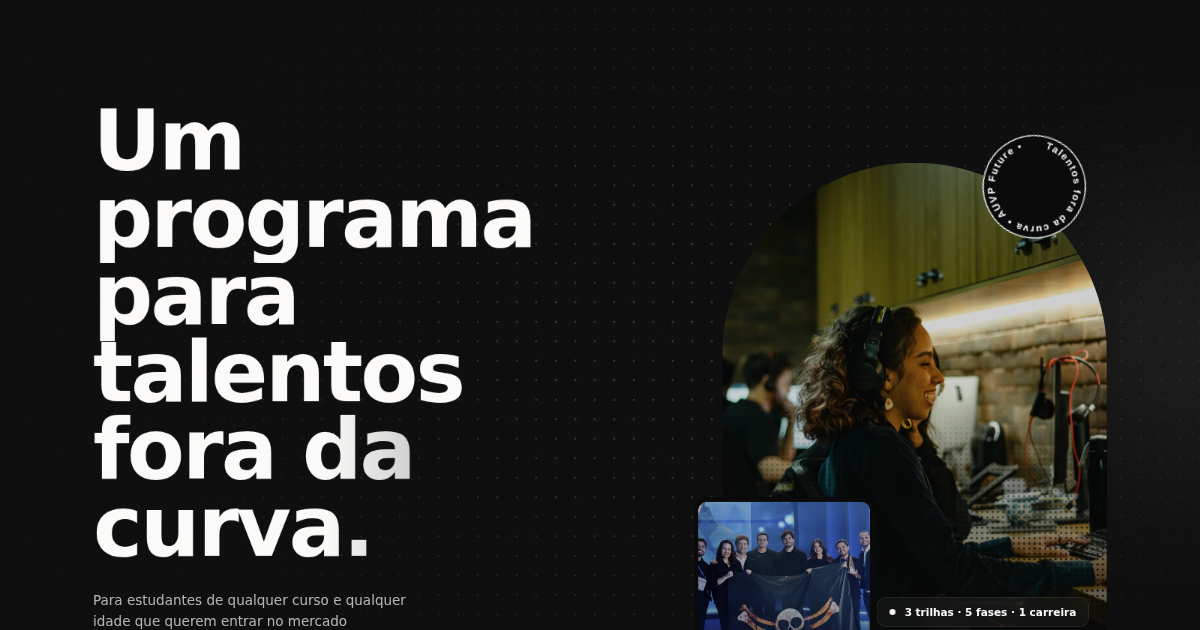
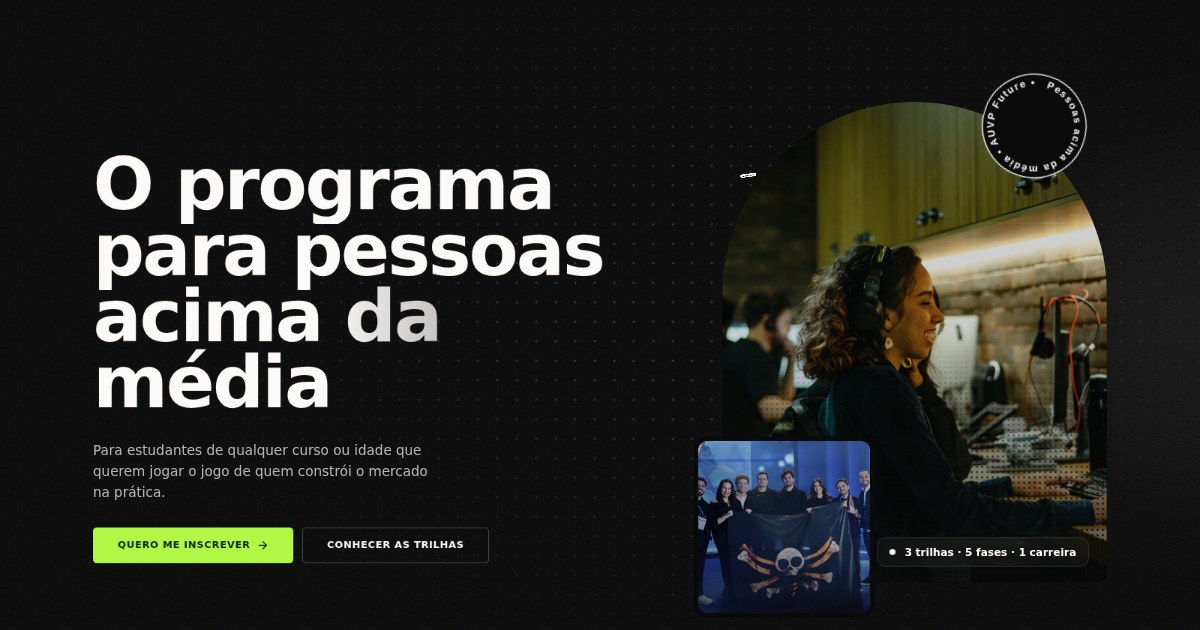
Apply the board's PDF copy and add the "O que é a AUVP?" fold
- Hero: "O programa para pessoas acima da média" + new subtitle; band,
  ring and tagline follow. display-xl trimmed to clamp(2.5rem, 6vw,
  6.5rem) so the three lines hold even with fallback fonts
- New About fold (white) between Hero and Intro: four credential cards —
  60 mil+ investidores formados, Top 1 no ranking BTG Pactual, 4 frentes
  de soluções, Cultura/valores
- Intro: "Isso não é um programa de estágio" + "Não contratamos papéis.
  Contratamos capacidade de execução…" (lime on execução / sangue nos
  olhos)
- Process: lead "Cinco etapas. Zero atalhos."; closing line removed as
  the PDF asks
- Trails: "Você escolhe a área e nós te ensinamos o resto."
- NotRequired: "Potencial e vontade pesam mais que currículo." + lead and
  the PDF's three explanations
- CTA: "Você tem o perfil que a gente procura?" / banco de talentos;
  button "Garantir minha inscrição"
- docs/copy-oficial-2026-09.md stores the extracted PDF text; README,
  CONTEUDO and CLAUDE.md updated; OG regenerated

Claude-Session: https://claude.ai/code/session_019ytdwh35wKkSoQDiyke19Z

diff --git a/src/data/content.ts b/src/data/content.ts
@@ -5,35 +5,44 @@
 
 export const site = {
   name: "AUVP Future",
-  tagline: "Um programa para talentos fora da curva.",
+  tagline: "O programa para pessoas acima da média.",
   applyUrl: import.meta.env.VITE_APPLY_URL || "#inscricao",
   formEndpoint: import.meta.env.VITE_FORM_ENDPOINT || "",
 } as const;
 
 export const hero = {
-  title: ["Um programa", "para talentos", "fora da curva."],
+  title: ["O programa", "para pessoas", "acima da média"],
   facts: ["Qualquer curso", "Qualquer idade", "Três trilhas de carreira"],
   badge: "3 trilhas · 5 fases · 1 carreira",
-  band: ["Um programa para talentos fora da curva", "Tecnologia", "Growth & Marketing", "Negócios & Finanças"],
-  ring: "Talentos fora da curva • AUVP Future • ",
+  band: ["O programa para pessoas acima da média", "Tecnologia", "Growth & Marketing", "Negócios & Finanças"],
+  ring: "Pessoas acima da média • AUVP Future • ",
   subtitle:
-    "Para estudantes de qualquer curso e qualquer idade que querem entrar no mercado aprendendo rápido, entregando de verdade e jogando em alta performance.",
+    "Para estudantes de qualquer curso ou idade que querem jogar o jogo de quem constrói o mercado na prática.",
   primaryCta: "Quero me inscrever",
   secondaryCta: "Conhecer as trilhas",
 } as const;
 
+export const about = {
+  title: "O que é a AUVP?",
+  items: [
+    { stat: "60 mil+", title: "A maior escola de investimentos do Brasil", text: "Mais de 60 mil investidores formados." },
+    { stat: "Top 1", title: "Ranking BTG Pactual", text: "Primeiro lugar no ranking de consultoria pelo segundo ano consecutivo." },
+    { stat: "4 frentes", title: "Soluções financeiras integradas", text: "Educação, consultoria patrimonial, inteligência para o agronegócio e soluções internacionais." },
+    { stat: "Cultura", title: "Compromisso inegociável com nossos valores", text: "Inovação e crescimento só acontecem quando a cultura interna é sólida." },
+  ],
+} as const;
+
 export const intro = {
-  title: "Isso não é um programa de estágio.",
+  title: "Isso não é um programa de estágio",
   statement:
-    "É a porta de entrada para quem quer assumir responsabilidade de verdade, cedo. Sem curso certo, sem idade certa, sem currículo perfeito: aqui o que pesa é a entrega, e a régua é alta.",
+    "Não contratamos papéis. Contratamos capacidade de execução. Nosso programa nasceu para reunir quem tem sangue nos olhos e quer construir uma carreira sólida.",
   /** palavras da declaração que ficam em lime (comparação exata, com pontuação) */
-  emphasis: ["responsabilidade", "entrega,", "alta."],
+  emphasis: ["execução.", "sangue", "nos", "olhos"],
 } as const;
 
 export const process = {
   title: "As fases do nosso processo seletivo",
-  lead: "Cinco etapas, sem atalho. Cada uma filtra de verdade.",
-  closing: "Cinco fases. Nenhum atalho.",
+  lead: "Cinco etapas. Zero atalhos.",
   steps: [
     { n: "01", title: "Inscrição", text: "Preenchimento de dados e envio de informações." },
     { n: "02", title: "Testes", text: "Avaliações de perfil, lógica e nivelamento." },
@@ -44,8 +53,8 @@ export const process = {
 } as const;
 
 export const trails = {
-  title: "Um programa, três trilhas, uma carreira",
-  subtitle: "Desenvolva-se em áreas essenciais para o crescimento do ecossistema:",
+  title: "Você escolhe a área e nós te ensinamos o resto.",
+  subtitle: "Desenvolva-se em áreas essenciais para o crescimento do nosso ecossistema:",
   items: [
     {
       id: "tech",
@@ -72,11 +81,12 @@ export const trails = {
 } as const;
 
 export const notRequired = {
-  title: "O que NÃO fazemos questão que você tenha",
+  title: "Potencial e vontade pesam mais que currículo.",
+  lead: "Por isso, NÃO fazemos questão que você tenha:",
   items: [
-    { title: "Inglês fluente", text: "Não é um requisito obrigatório para a maioria das vagas." },
-    { title: "Experiência prévia", text: "Buscamos muito mais o potencial e a vontade do que o currículo." },
-    { title: "Diploma de faculdade de ponta", text: "Valorizamos o seu esforço real e capacidade de entrega." },
+    { title: "Inglês fluente", text: "Saber resolver o problema em português claro vale dez vezes mais do que falar termos bonitos em inglês." },
+    { title: "Experiência prévia", text: "Nosso foco é o seu desenvolvimento." },
+    { title: "Diploma de faculdade", text: "Valorizamos o seu esforço e a sua capacidade de entregar resultados." },
   ],
 } as const;
 
@@ -118,10 +128,10 @@ export const notFor = {
 } as const;
 
 export const cta = {
-  title: "Garanta sua chance.",
+  title: "Você tem o perfil que a gente procura?",
   formTitle: "Próximos passos e inscrição",
-  text: "Garanta sua chance de participar de um dos processos seletivos mais transformadores do mercado preenchendo os dados e aplicando para a vaga ideal para o seu perfil.",
-  button: "Aplicar para a vaga",
+  text: "Preencha seus dados e garanta sua inscrição no nosso banco de talentos.",
+  button: "Garantir minha inscrição",
 } as const;
 
 export const nav = [

diff --git a/src/components/About.tsx b/src/components/About.tsx
@@ -1,0 +1,32 @@
+import { about } from "@/data/content";
+import { SectionHeader } from "./SectionHeader";
+import { useReveal } from "@/hooks/useReveal";
+
+/**
+ * "O que é a AUVP?": quatro credenciais em grade (dobra branca, entre o Hero
+ * e a Intro). Cada card abre com o dado grande (60 mil+, Top 1, …) em Anek,
+ * seguido do título e da explicação. Hover oficial do DS + elasticidade.
+ */
+export function About({ reducedMotion }: { reducedMotion: boolean }) {
+  const root = useReveal<HTMLElement>({ disabled: reducedMotion, stagger: 0.1 });
+
+  return (
+    <section ref={root} id="auvp" className="section relative bg-white text-ink">
+      <div className="wrap-wide">
+        <SectionHeader tone="light" title={about.title} className="section-head" />
+
+        <div className="grid gap-[var(--stack)] sm:grid-cols-2 lg:grid-cols-4">
+          {about.items.map((item) => (
+            <article key={item.title} data-reveal className="card card-elastic group relative flex flex-col overflow-hidden bg-mist p-7">
+              <div aria-hidden className="absolute -right-12 -top-12 h-40 w-40 rounded-full bg-ink/[0.04] transition-transform duration-600 ease-expo group-hover:scale-[2.4]" />
+              <p className="relative font-anek text-5xl font-extrabold leading-none tracking-tight text-ink">{item.stat}</p>
+              <h3 className="relative mt-8 font-anek text-xl font-bold leading-tight text-ink">{item.title}</h3>
+              <p className="relative mt-2 text-sm leading-relaxed text-muted-foreground">{item.text}</p>
+              <span aria-hidden className="absolute bottom-0 left-0 h-1 w-full origin-left scale-x-0 bg-ink transition-transform duration-600 ease-expo group-hover:scale-x-100" />
+            </article>
+          ))}
+        </div>
+      </div>
+    </section>
+  );
+}

diff --git a/src/App.tsx b/src/App.tsx
@@ -4,6 +4,7 @@ import { useLenis } from "@/hooks/useLenis";
 import { Loader } from "@/components/Loader";
 import { Nav } from "@/components/Nav";
 import { Hero } from "@/components/Hero";
+import { About } from "@/components/About";
 import { Intro } from "@/components/Intro";
 import { Process } from "@/components/Process";
 import { Trails } from "@/components/Trails";
@@ -16,7 +17,7 @@ import { Footer } from "@/components/Footer";
 
 /**
  * Ordem das dobras (alternância do DS: preta → cinza → branca → preta):
- * Loader → Hero → Intro → Process (cinza) → Trails → NotRequired (branca)
+ * Loader → Hero → About (branca) → Intro (grafite) → Process (cinza) → Trails → NotRequired (branca)
  * → Culture → Benefits (cinza) → Fit (verde/preta) → CTA → Footer.
  * Sem cena 3D: o fundo das dobras escuras é o preto sólido da marca.
  */
@@ -34,6 +35,7 @@ export default function App() {
 
       <main className="relative z-10">
         <Hero ready={ready} reducedMotion={reducedMotion} />
+        <About reducedMotion={reducedMotion} />
         <Intro reducedMotion={reducedMotion} />
         <Process reducedMotion={reducedMotion} />
         <Trails reducedMotion={reducedMotion} />

diff --git a/src/components/Process.tsx b/src/components/Process.tsx
@@ -9,6 +9,7 @@ import { useReveal } from "@/hooks/useReveal";
  *
  *  - Desktop: painel fixo à esquerda (título, número grande da fase ativa,
  *    "Fase N de 5" e barra de progresso) + lista das cinco fases à direita.
+ *    A frase de fechamento saiu (a diretoria apontou repetição com o lead).
  *  - Mobile: título, depois a lista.
  *
  * A fase "ativa" é a que cruza o meio da viewport: um ScrollTrigger por
@@ -81,7 +82,6 @@ export function Process({ reducedMotion }: { reducedMotion: boolean }) {
               </div>
             </div>
 
-            <p data-reveal className="mt-10 hidden font-anek text-2xl font-semibold text-ink/40 lg:block">{process.closing}</p>
           </div>
         </div>
 
@@ -108,7 +108,6 @@ export function Process({ reducedMotion }: { reducedMotion: boolean }) {
           ))}
         </ol>
 
-        <p className="font-anek text-2xl font-semibold text-ink/40 lg:hidden">{process.closing}</p>
       </div>
     </section>
   );

diff --git a/tailwind.config.ts b/tailwind.config.ts
@@ -25,7 +25,7 @@ export default {
       },
       fontSize: {
         // Escala display da LP (extrapola o DS, que para no text-5xl).
-        "display-xl": ["clamp(2.75rem, 7vw, 7.25rem)", { lineHeight: "0.92", letterSpacing: "-0.03em" }],
+        "display-xl": ["clamp(2.5rem, 6vw, 6.5rem)", { lineHeight: "0.92", letterSpacing: "-0.03em" }],
         "display-lg": ["clamp(2.5rem, 6.5vw, 5.75rem)", { lineHeight: "0.95", letterSpacing: "-0.025em" }],
         "display-md": ["clamp(2rem, 4.5vw, 3.75rem)", { lineHeight: "1", letterSpacing: "-0.02em" }],
         "display-sm": ["clamp(1.5rem, 2.8vw, 2.25rem)", { lineHeight: "1.05", letterSpacing: "-0.015em" }],

diff --git a/src/components/NotRequired.tsx b/src/components/NotRequired.tsx
@@ -40,9 +40,7 @@ export function NotRequired({ reducedMotion }: { reducedMotion: boolean }) {
       <div className="wrap grid gap-12 lg:grid-cols-12">
         <div className="lg:col-span-5">
           <SectionHeader tone="light" title={notRequired.title} />
-          <p data-reveal className="mt-6 max-w-md text-muted-foreground">
-            Potencial e vontade pesam mais que currículo. O resto a gente constrói junto.
-          </p>
+          <p data-reveal className="mt-6 max-w-md text-lg text-ink/70">{notRequired.lead}</p>
         </div>
 
         <ul className="flex flex-col lg:col-span-7">

diff --git a/README.md b/README.md
@@ -4,7 +4,7 @@ Landing page do programa **AUVP Future**, "um programa para talentos fora da cur
 
 Pronta para deploy no **GitHub Pages** (workflow incluído).
 
-> Documentação completa em [`docs/`](docs/): [Arquitetura](docs/ARQUITETURA.md) · [Design System e extensões](docs/DESIGN-SYSTEM.md) · [Animações e 3D](docs/ANIMACOES.md) · [Deploy](docs/DEPLOY.md) · [Conteúdo](docs/CONTEUDO.md) · [Briefing original](docs/briefing-original.md)
+> Documentação completa em [`docs/`](docs/): [Arquitetura](docs/ARQUITETURA.md) · [Design System e extensões](docs/DESIGN-SYSTEM.md) · [Animações e 3D](docs/ANIMACOES.md) · [Deploy](docs/DEPLOY.md) · [Conteúdo](docs/CONTEUDO.md) · [Copy oficial 09/2026](docs/copy-oficial-2026-09.md) · [Briefing original](docs/briefing-original.md)
 
 ---
 
@@ -70,15 +70,16 @@ Copie `.env.example` para `.env` (opcional — tudo tem padrão):
 |---|---|---|---|
 | 0 | `Loader` | grafite | Olho AUVP abre, contador 0→100, palavras da cultura, cortinas abrem em sincronia com a entrada do Hero |
 | 1 | `Hero` | preta | Editorial, mobile-first: título em 3 linhas (a última em papel cheio), subtítulo + ações, e composição fotográfica — foto grande em arco revelada por `clip-path` com Ken Burns e base em meio-tom, foto menor sobreposta, adesivos com os fatos, adesivo circular girando e selo de vidro; grade de pontos no fundo; marquee cinza fechando a dobra; parallax em duas profundidades |
-| 2 | `Intro` | grafite | Declaração que "acende" palavra a palavra com o scroll |
-| 3 | `Process` | cinza | Lista vertical das 5 fases com painel fixo (número grande, "Fase N de 5", progresso); a fase que cruza o meio da tela acende |
-| 4 | `Trails` | preta | Cards que se montam com elasticidade e inclinam em perspectiva no hover |
-| 5 | `NotRequired` | branca | Requisitos riscados ao vivo + carimbo "Opcional" |
-| 6 | `Culture` | preta | Foto sticky com parallax e recorte; manifesto revela palavra a palavra |
-| 7 | `Benefits` | cinza | Grade assimétrica com hover oficial do DS + ícones que pulam |
-| 8 | `Fit` | grafite/preta | "O que você vai aprender" × "Para quem NÃO é" |
-| 9 | `CTA` | preta | Título + texto e foto em arco preenchendo a altura do formulário (5/7 colunas); formulário de inscrição (nome, e-mail, trilha) |
-| 10 | `Footer` | preta | — |
+| 2 | `About` | branca | "O que é a AUVP?": quatro credenciais em grade (60 mil+, Top 1, 4 frentes, Cultura) |
+| 3 | `Intro` | grafite | "Isso não é um programa de estágio": declaração que "acende" palavra a palavra com o scroll |
+| 4 | `Process` | cinza | Lista vertical das 5 fases com painel fixo (número grande, "Fase N de 5", progresso); a fase que cruza o meio da tela acende |
+| 5 | `Trails` | preta | Cards que se montam com elasticidade e inclinam em perspectiva no hover |
+| 6 | `NotRequired` | branca | Requisitos riscados ao vivo + carimbo "Opcional" |
+| 7 | `Culture` | preta | Foto sticky com parallax e recorte; manifesto revela palavra a palavra |
+| 8 | `Benefits` | cinza | Grade assimétrica com hover oficial do DS + ícones que pulam |
+| 9 | `Fit` | grafite/preta | "O que você vai aprender" × "Para quem NÃO é" |
+| 10 | `CTA` | preta | Título + texto e foto em arco preenchendo a altura do formulário (5/7 colunas); formulário de inscrição (nome, e-mail, trilha) |
+| 11 | `Footer` | preta | — |
 
 ## Acessibilidade e performance
 

diff --git a/docs/copy-oficial-2026-09.md b/docs/copy-oficial-2026-09.md
@@ -1,0 +1,44 @@
+# Copy oficial — AUVP Future (PDF de 09/2026)
+
+> Texto extraído do PDF "AUVP Prodígios" enviado pela diretoria em 11/09/2026. É a fonte da copy atual de `src/data/content.ts` para Hero, "O que é a AUVP?", Intro, Processo (lead), Trilhas, "Sem barreiras" e Inscrição. Cultura, Benefícios e "Aprender × Não é" não constam no PDF e seguem a revisão anterior.
+
+Observações de aplicação:
+- "A maior **escolha** de investimentos do Brasil" foi lido como erro de digitação de **escola** e assim aplicado.
+- A frase "Cinco fases. Nenhum atalho." foi removida do Processo, como o PDF pede; o lead virou "Cinco etapas. Zero atalhos.".
+- O título do Hero "O programa para pessoas acima da média" foi quebrado em três linhas: "O programa / para pessoas / acima da média".
+
+---
+
+O programa para pessoas acima da média
+Para estudantes de qualquer curso ou idade que querem jogar o jogo de
+quem constrói o mercado na prática.
+O que é a AUVP?
+A maior escolha de investimentos do Brasil, com mais de 60 mil
+investidores formados.
+Top 1 no ranking BTG Pactual: conquistamos o primeiro lugar no ranking de
+consultoria pelo segundo ano consecutivo.
+Soluções financeiras integradas: educação, consultoria patrimonial,
+inteligência para o agronegócio e soluções internacionais.
+Compromisso inegociável com nossos valores: inovação e crescimento
+só acontecem quando a cultura interna é sólida.
+Isso não é um programa de estágio
+Não contratamos papéis. Contratamos capacidade de execução. Nosso
+programa nasceu para reunir quem tem sangue nos olhos e quer construir
+uma carreira sólida.
+As fases do nosso processo seletivo
+Cinco etapas. Zero atalhos.
+Daí, vamos tirar a frase: “Cinco fases. Nenhum atalho.” Ficou repetida.
+Você escolhe a área e nós te ensinamos o resto.
+Desenvolva-se em áreas essenciais para o crescimento do nosso
+ecossistema:
+Potencial e vontade pesam mais que currículo.
+Por isso, NÃO fazemos questão que você tenha:
+Inglês fluente
+Saber resolver o problema em português claro vale dez vezes mais do que
+falar termos bonitos em inglês.
+Experiência prévia
+Nosso foco é o seu desenvolvimento.
+Diploma de faculdade
+Valorizamos o seu esforço e a sua capacidade de entregar resultados.
+Você tem o perfil que a gente procura?
+Preencha seus dados e garanta sua inscrição no nosso banco de talentos.

diff --git a/docs/CONTEUDO.md b/docs/CONTEUDO.md
@@ -2,9 +2,9 @@
 
 ## Copy
 
-Toda a copy da página vive em `src/data/content.ts`, seção por seção, e é a única fonte de verdade — os componentes não têm texto hardcoded. O texto reproduz o briefing ([briefing-original.md](briefing-original.md)) com o nome atualizado para **AUVP Future**.
+Toda a copy da página vive em `src/data/content.ts`, seção por seção, e é a única fonte de verdade — os componentes não têm texto hardcoded. Desde 11/09/2026 o texto segue o **PDF da diretoria** ([copy-oficial-2026-09.md](copy-oficial-2026-09.md)) para Hero, "O que é a AUVP?" (`about`), Intro, Processo, Trilhas, "Sem barreiras" e Inscrição; Cultura, Benefícios e "Aprender × Não é" seguem a revisão anterior, pois o PDF não os cobre. O briefing original está em [briefing-original.md](briefing-original.md).
 
-Para alterar um texto, edite o objeto correspondente (`hero`, `process`, `trails`, `notRequired`, `culture`, `benefits`, `learn`, `notFor`, `cta`, `nav`). As palavras destacadas da `Intro` e da `Culture` ficam nos campos `emphasis` de cada objeto (comparação exata com a palavra, incluindo pontuação) — ajuste-os junto com a frase. Copy revisada pela diretoria em 09/2026: a Intro ganhou título próprio ("Isso não é um programa de estágio."), "garra" saiu do Hero e da Intro, "sentimento de dono" virou "puxa a responsabilidade para si" (pilar "Responsabilidade"), e o processo ganhou `lead` e `closing` ("Cinco fases. Nenhum atalho.").
+Para alterar um texto, edite o objeto correspondente (`hero`, `about`, `intro`, `process`, `trails`, `notRequired`, `culture`, `benefits`, `learn`, `notFor`, `cta`, `nav`). As palavras destacadas da `Intro` e da `Culture` ficam nos campos `emphasis` de cada objeto (comparação exata com a palavra, incluindo pontuação) — ajuste-os junto com a frase. Copy revisada pela diretoria em 09/2026: a Intro ganhou título próprio ("Isso não é um programa de estágio."), "garra" saiu do Hero e da Intro, "sentimento de dono" virou "puxa a responsabilidade para si" (pilar "Responsabilidade"), e o processo ganhou `lead` e `closing` ("Cinco fases. Nenhum atalho.").
 
 ## Nome do programa
 

diff --git a/CLAUDE.md b/CLAUDE.md
@@ -33,4 +33,4 @@ Landing page única (sem rotas) do programa AUVP Future. Vite + React 18 + TypeS
 
 ## Documentação
 
-`README.md` (visão geral) · `docs/ARQUITETURA.md` · `docs/DESIGN-SYSTEM.md` · `docs/ANIMACOES.md` · `docs/DEPLOY.md` · `docs/CONTEUDO.md` · `docs/briefing-original.md`
+`README.md` (visão geral) · `docs/ARQUITETURA.md` · `docs/DESIGN-SYSTEM.md` · `docs/ANIMACOES.md` · `docs/DEPLOY.md` · `docs/CONTEUDO.md` · `docs/copy-oficial-2026-09.md` · `docs/briefing-original.md`
